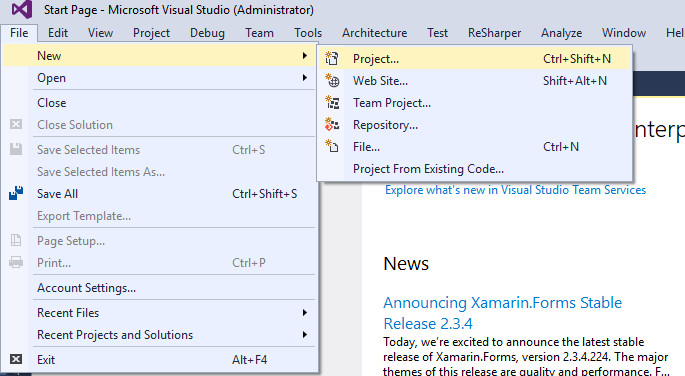
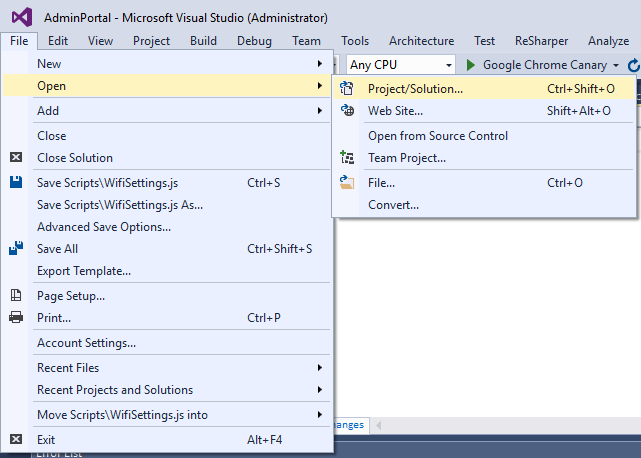
Amended README

Changed region(s): [[0.0, 0.0, 1.0, 1.0], [0.5616, 0.6729, 0.624, 0.7314]]

diff --git a/2017/Step 1 - Publishing your first Web Apps/README.md b/2017/Step 1 - Publishing your first Web Apps/README.md
@@ -1,5 +1,5 @@
 # Goal
-For this part of the bootcamp, our attendees will create a shiny new website in Visual Studio. We'll then add a form to capture a message submitted by the user. Finally, they'll deploy to Azure App Service so the entire world can marvel at their amazing websites!
+For this part of the bootcamp, our attendees will create a shiny new website in Visual Studio. We'll add a form to capture a message submitted by the user. Finally, they'll deploy to Azure App Service so the entire world can marvel at their amazing websites!
 
 # Reference
 https://www.asp.net/mvc
@@ -7,36 +7,9 @@ https://www.asp.net/mvc
 
 # Let's code!
 ## Create a new website
-Fire up Visual Studio. Click File -> New -> Project (or use the Ctrl-Shift-n shortcut)
+Fire up Visual Studio. Click `File -> Open  -> Project/Solution` and navigate to the supplied solution.
 
 ![alt text][img1]
-
-In the left pane, ensure the following template is selected: `Templates -> Visual C# -> Web`
-
-When the `Web` template is selected, we can specify we want to use `ASP.Net Web Application (.NET Framework)`. Give your project a name, and hit `OK`.
-
-![alt text][img2]
-
-Finally, we'll select the MVC template. We'll de-select the `Host in cloud` option for now (we'll come back to it shortly).
-
-Let's also click the `Change Authentication` button and choose the `No Authentication` option and click `OK`.
-
-Now let's click `OK` one more time and our website has now been created. Morale is raised!
-
-![alt text][img3]
-
-## Coding the website
-
-Let's perform a little clean-up of items we don't need:
-
-* In the home controller, delete these actions:
-    * About()
-    * Contact()
-* The in `/Views/Home` folder, delete these files:
-    * `About.schtml`
-    * `Contact.cshtml`
-
-Now that we've gotten rid of the cruft, let's create that form to capture a message. This will involve creating a Model, a View, and a Controller (this is a MVC app, after all...)
 
 ### The Model
 
@@ -86,28 +59,6 @@ public class QueueController : Controller
     }
 }
 ```
-
-### Almost there...
-
-Let's make a small change to the shared layout at `/Views/Shared/Layout.cshtml`
-
-In the list of nav links, let's remove the links to the views we deleted, and add a link to our queue message form:
-
-```html
-<ul class="nav navbar-nav">
-    <li>@Html.ActionLink("Home", "Index", "Home")</li>
-    <li>@Html.ActionLink("Create message", "CreateMessage", "Queue")</li>
-</ul>
-```
-Finally, let's update the home page to remove all of Microsoft's content. Open `/Views/Home/Index.cshtml` and edit as follows:
-
-```html
-<div class="jumbotron">
-    <h1>Global Azure Bootcamp</h1>
-    <p class="lead">2017</p>
-</div>
-```
-
 ### Build and Run!
 
 Hit F5 and PROFIT!!!
@@ -124,7 +75,7 @@ Start by right-clicking on the web project and clicking `Publish`. If you haven'
 
 ![alt text][img4]
 
-Choose your subscription, and click `New` to setup your App Service: 
+Choose your subscription, and click `New` to setup your App Service:
 
 ![alt text][img5]
 
@@ -134,7 +85,7 @@ Once provisioning is complete, our publishing profile is complete and the Publis
 
 ![alt text][img6]
 
-At this point we should be able to click Publish, and wait a few minutes for the deploy to complete. We can keep an eye on the Output window to check the status. When the deployment is complete, our browser should open a new tab and display our cloud-powered website! 
+At this point we should be able to click Publish, and wait a few minutes for the deploy to complete. We can keep an eye on the Output window to check the status. When the deployment is complete, our browser should open a new tab and display our cloud-powered website!
 
 ![alt text][img7]
 
@@ -152,7 +103,7 @@ Clicking on the App Service will take us to a screen where you can manage and mo
 
 I ran into a couple issues during this deployment. First, stale credentials can prevent subscriptions from appearing when doing a publish. Follow these instruction to remedy: http://stackoverflow.com/questions/24507589/visual-studio-not-finding-my-azure-subscriptions
 
-I also ran into this error during deployment: 
+I also ran into this error during deployment:
 
 ```
 Warning : Retrying the sync because a socket error (10054) occurred
